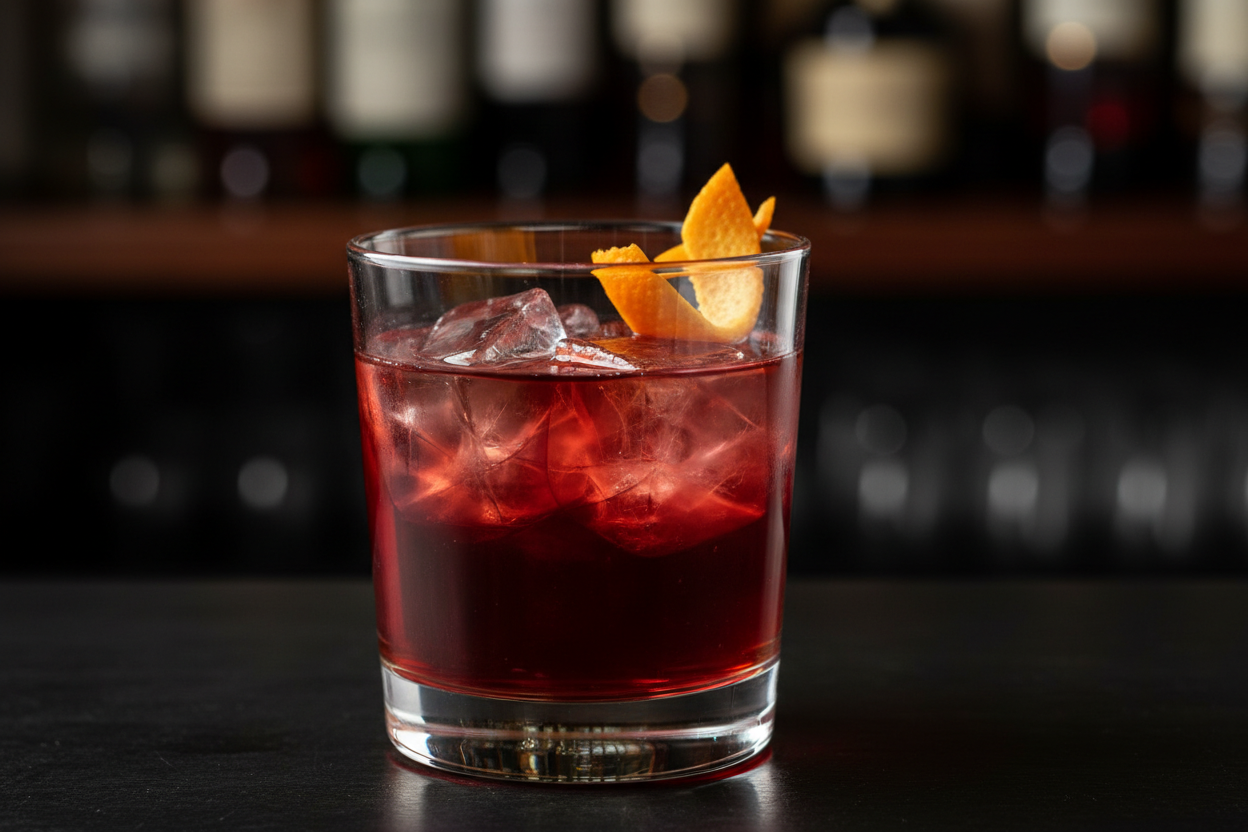
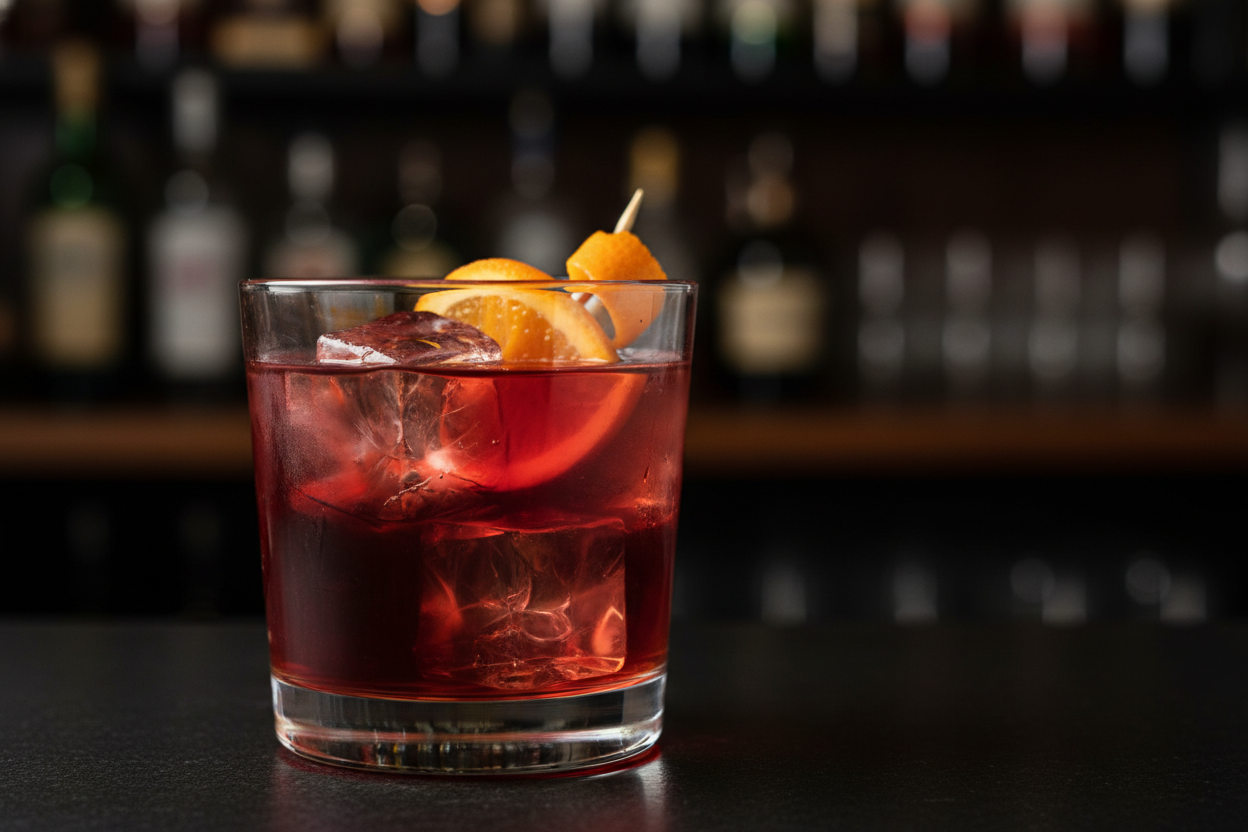
feat(bebidas): añadir categoría Bebidas con receta de Negroni clásico

diff --git a/sync_to_docs.py b/sync_to_docs.py
@@ -11,7 +11,7 @@ from pathlib import Path
 # Configuración
 BASE_DIR = Path.home() / "Library/Mobile Documents/com~apple~CloudDocs/Recetario"
 DOCS_DIR = BASE_DIR / "docs"
-CATEGORIAS = ["entrantes", "principales", "arroces", "tapas", "guarniciones_y_salsas", "postres"]
+CATEGORIAS = ["entrantes", "principales", "arroces", "tapas", "guarniciones_y_salsas", "postres", "bebidas"]
 
 def sync_recetas():
     """Sincroniza recetas e imágenes a estructura docs/"""

diff --git a/copy_image.py b/copy_image.py
@@ -1,0 +1,8 @@
+#!/usr/bin/env python3
+import shutil
+
+source = "/Users/javierfernandezcabanas/Library/Mobile Documents/com~apple~CloudDocs/Recetario/bebidas/imagenes/negroni.jpg"
+dest = "/Users/javierfernandezcabanas/Library/Mobile Documents/com~apple~CloudDocs/Recetario/docs/bebidas/imagenes/negroni.jpg"
+
+shutil.copy2(source, dest)
+print(f"Copiado: {source} -> {dest}")

diff --git a/docs/bebidas/negroni.md b/docs/bebidas/negroni.md
@@ -1,0 +1,34 @@
+# Negroni
+
+Cóctel italiano clásico creado en Florencia en 1919, equilibrio perfecto entre amargor, dulzor y fuerza alcohólica.
+
+![Negroni](imagenes/negroni.jpg)
+
+| Tiempo Total | Dificultad | Porciones |
+| :--- | :--- | :--- |
+| 5 min | Baja | 1 |
+
+## Ingredientes
+
+* 30 ml Gin
+* 30 ml Campari
+* 30 ml Vermut rojo italiano (Martini Rosso o Carpano Antica)
+* Hielo en cubos grandes
+* 1 rodaja Media naranja
+* 1 twist Piel de naranja
+
+## Elaboración
+
+1. **Preparación del vaso:** Llenar un vaso Old Fashioned (vaso bajo) con hielos grandes y dejar enfriar mientras se preparan los ingredientes.
+2. **Mezcla:** Retirar el exceso de agua derretida del vaso. Verter directamente sobre el hielo el gin, Campari y vermut rojo en proporciones exactamente iguales (1:1:1).
+3. **Integración:** Remover suavemente con cuchara de bar durante 15-20 segundos en sentido circular para integrar los ingredientes sin diluir excesivamente.
+4. **Guarnición:** Expresar los aceites esenciales de la piel de naranja sobre la superficie del cóctel doblándola sobre el vaso, frotar el borde del vaso con la piel y depositarla dentro. Añadir media rodaja de naranja.
+5. **Servicio:** Servir inmediatamente en el mismo vaso.
+
+> **Notas del Chef:**
+> * **Técnica:** La proporción 1:1:1 es sagrada en el Negroni. La cuchara de bar debe moverse lentamente para no romper el hielo y sobre-diluir el cóctel.
+> * **Punto Crítico:** El hielo debe ser de calidad (grande y cristalino) para evitar dilución rápida. Jamás usar hielo picado.
+> * **Ingredientes:** La calidad del gin y vermut marca la diferencia. El Campari no tiene sustituto válido.
+> * **Variaciones:** Negroni Sbagliato (sustituir gin por prosecco), Boulevardier (sustituir gin por bourbon).
+> * **Maridaje:** Aperitivo perfecto antes de una comida italiana. Excelente con aceitunas, almendras saladas o embutidos.
+> * **Historia:** Creado por el Conde Camillo Negroni en el Caffè Casoni de Florencia al pedir que reforzaran su Americano (Campari + vermut + soda) sustituyendo la soda por gin.
